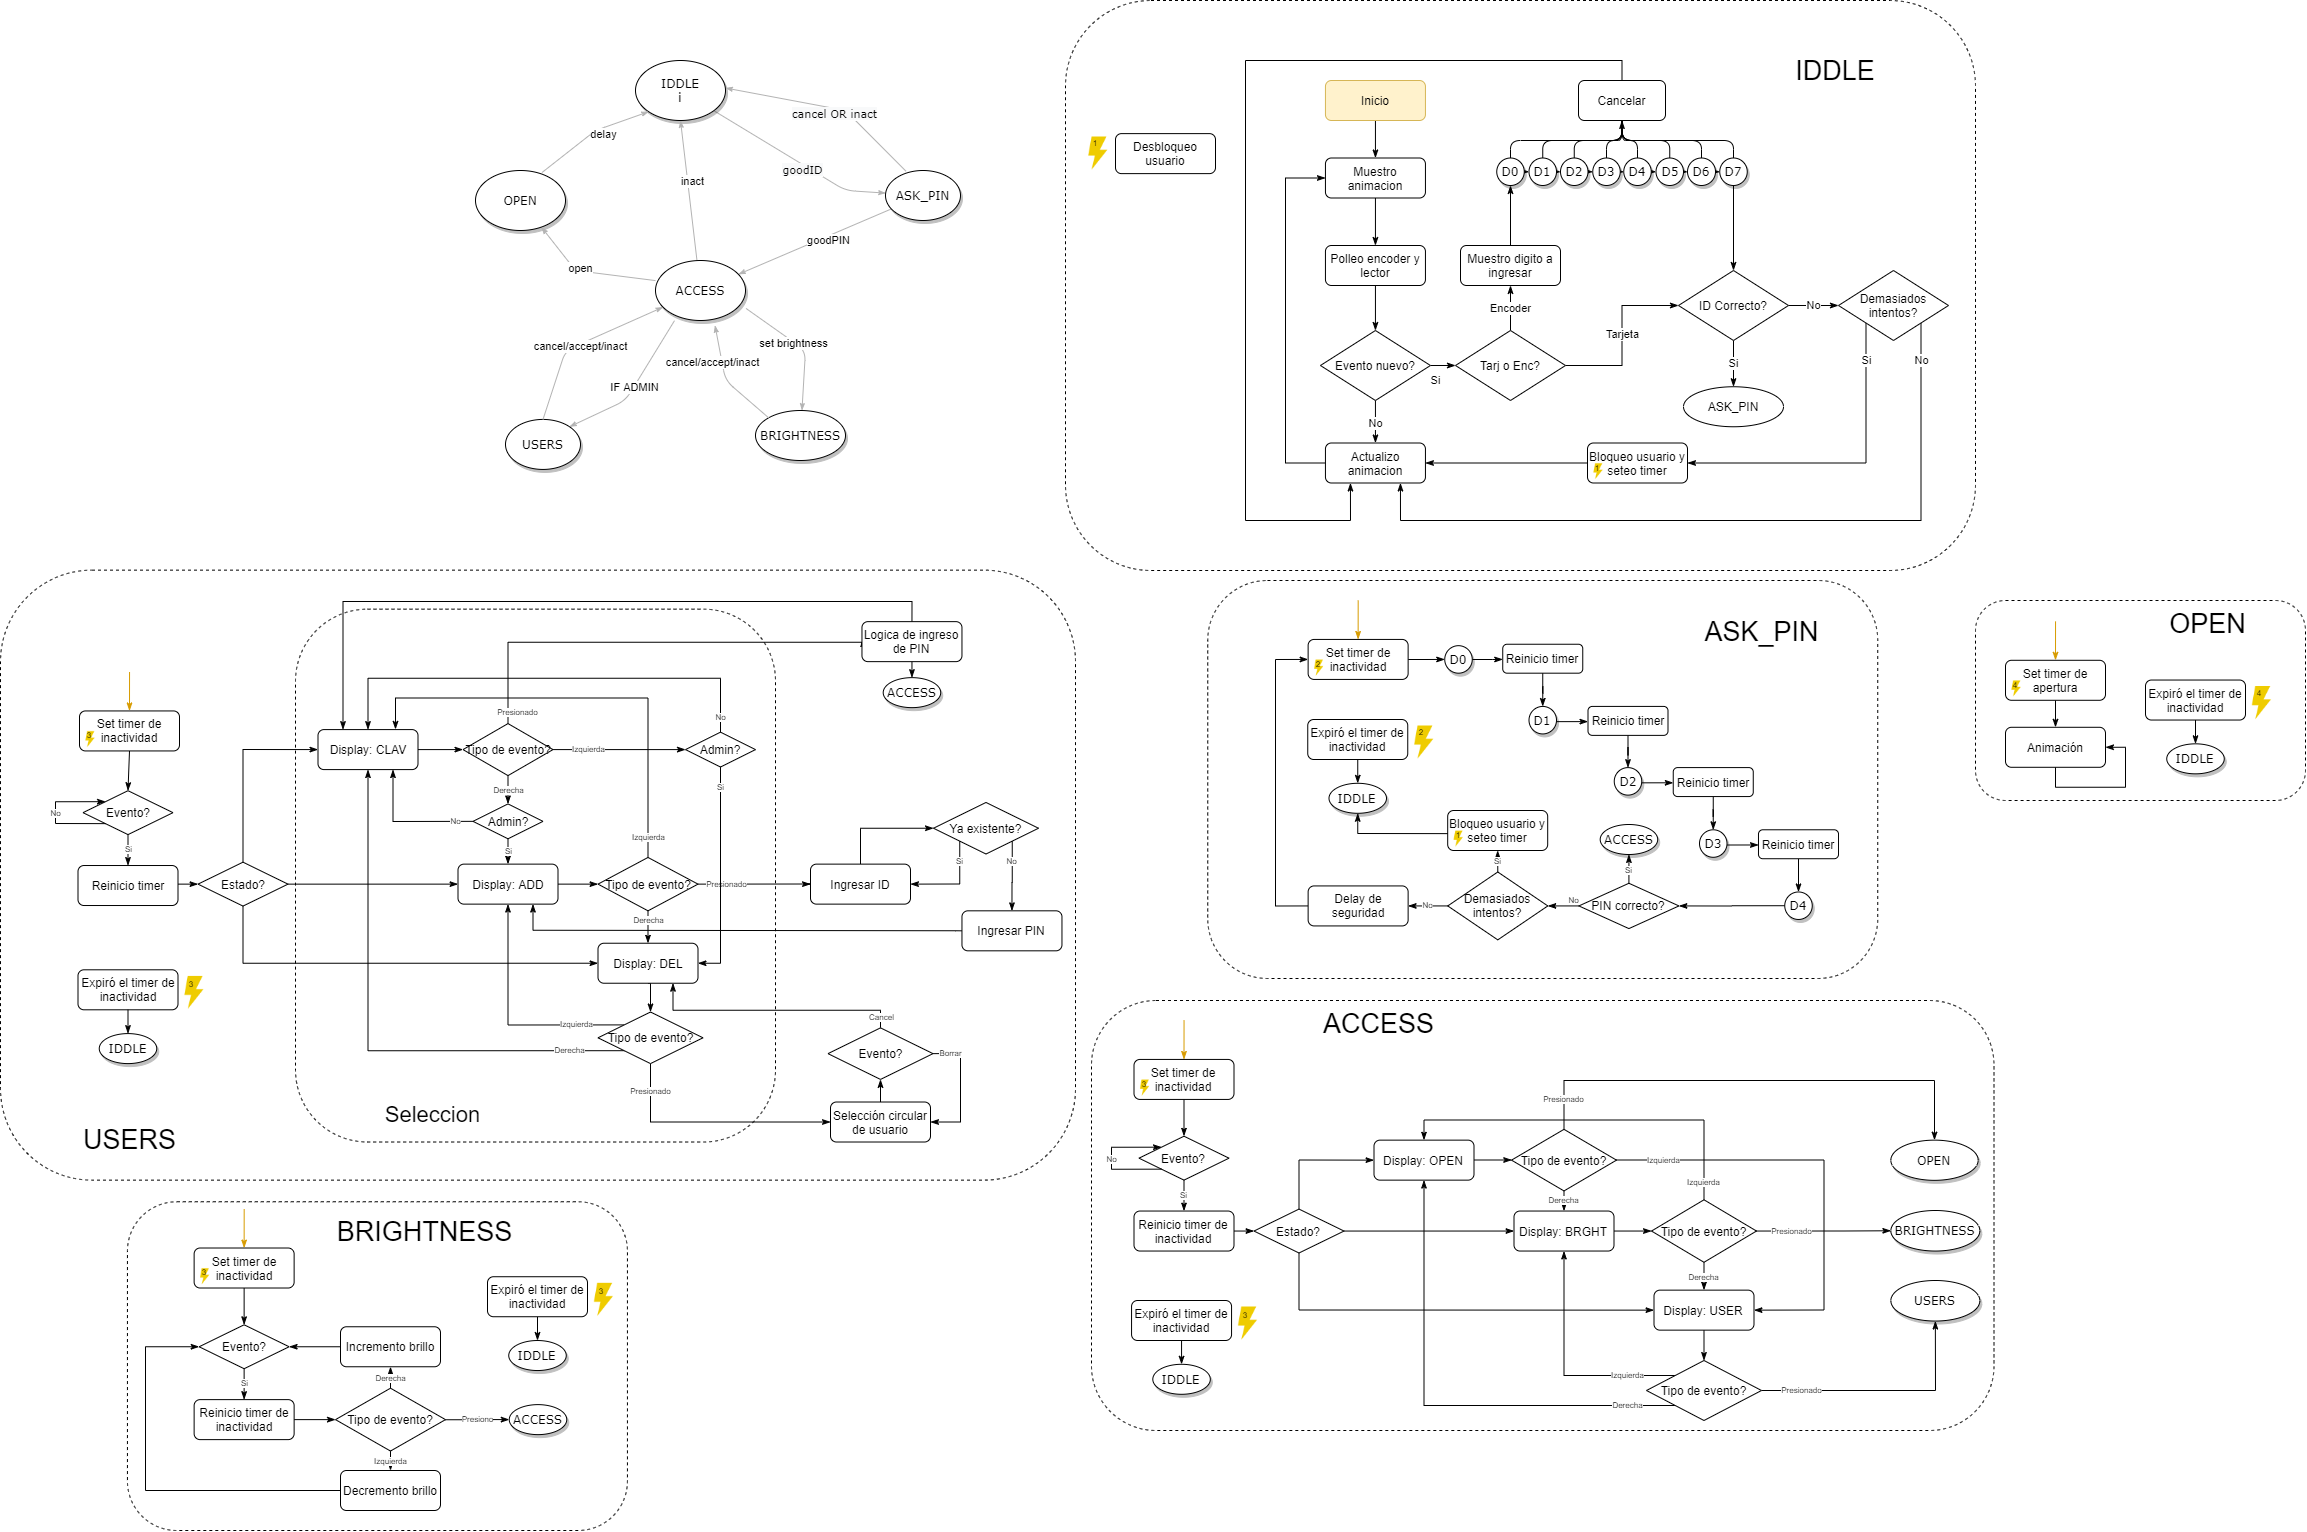
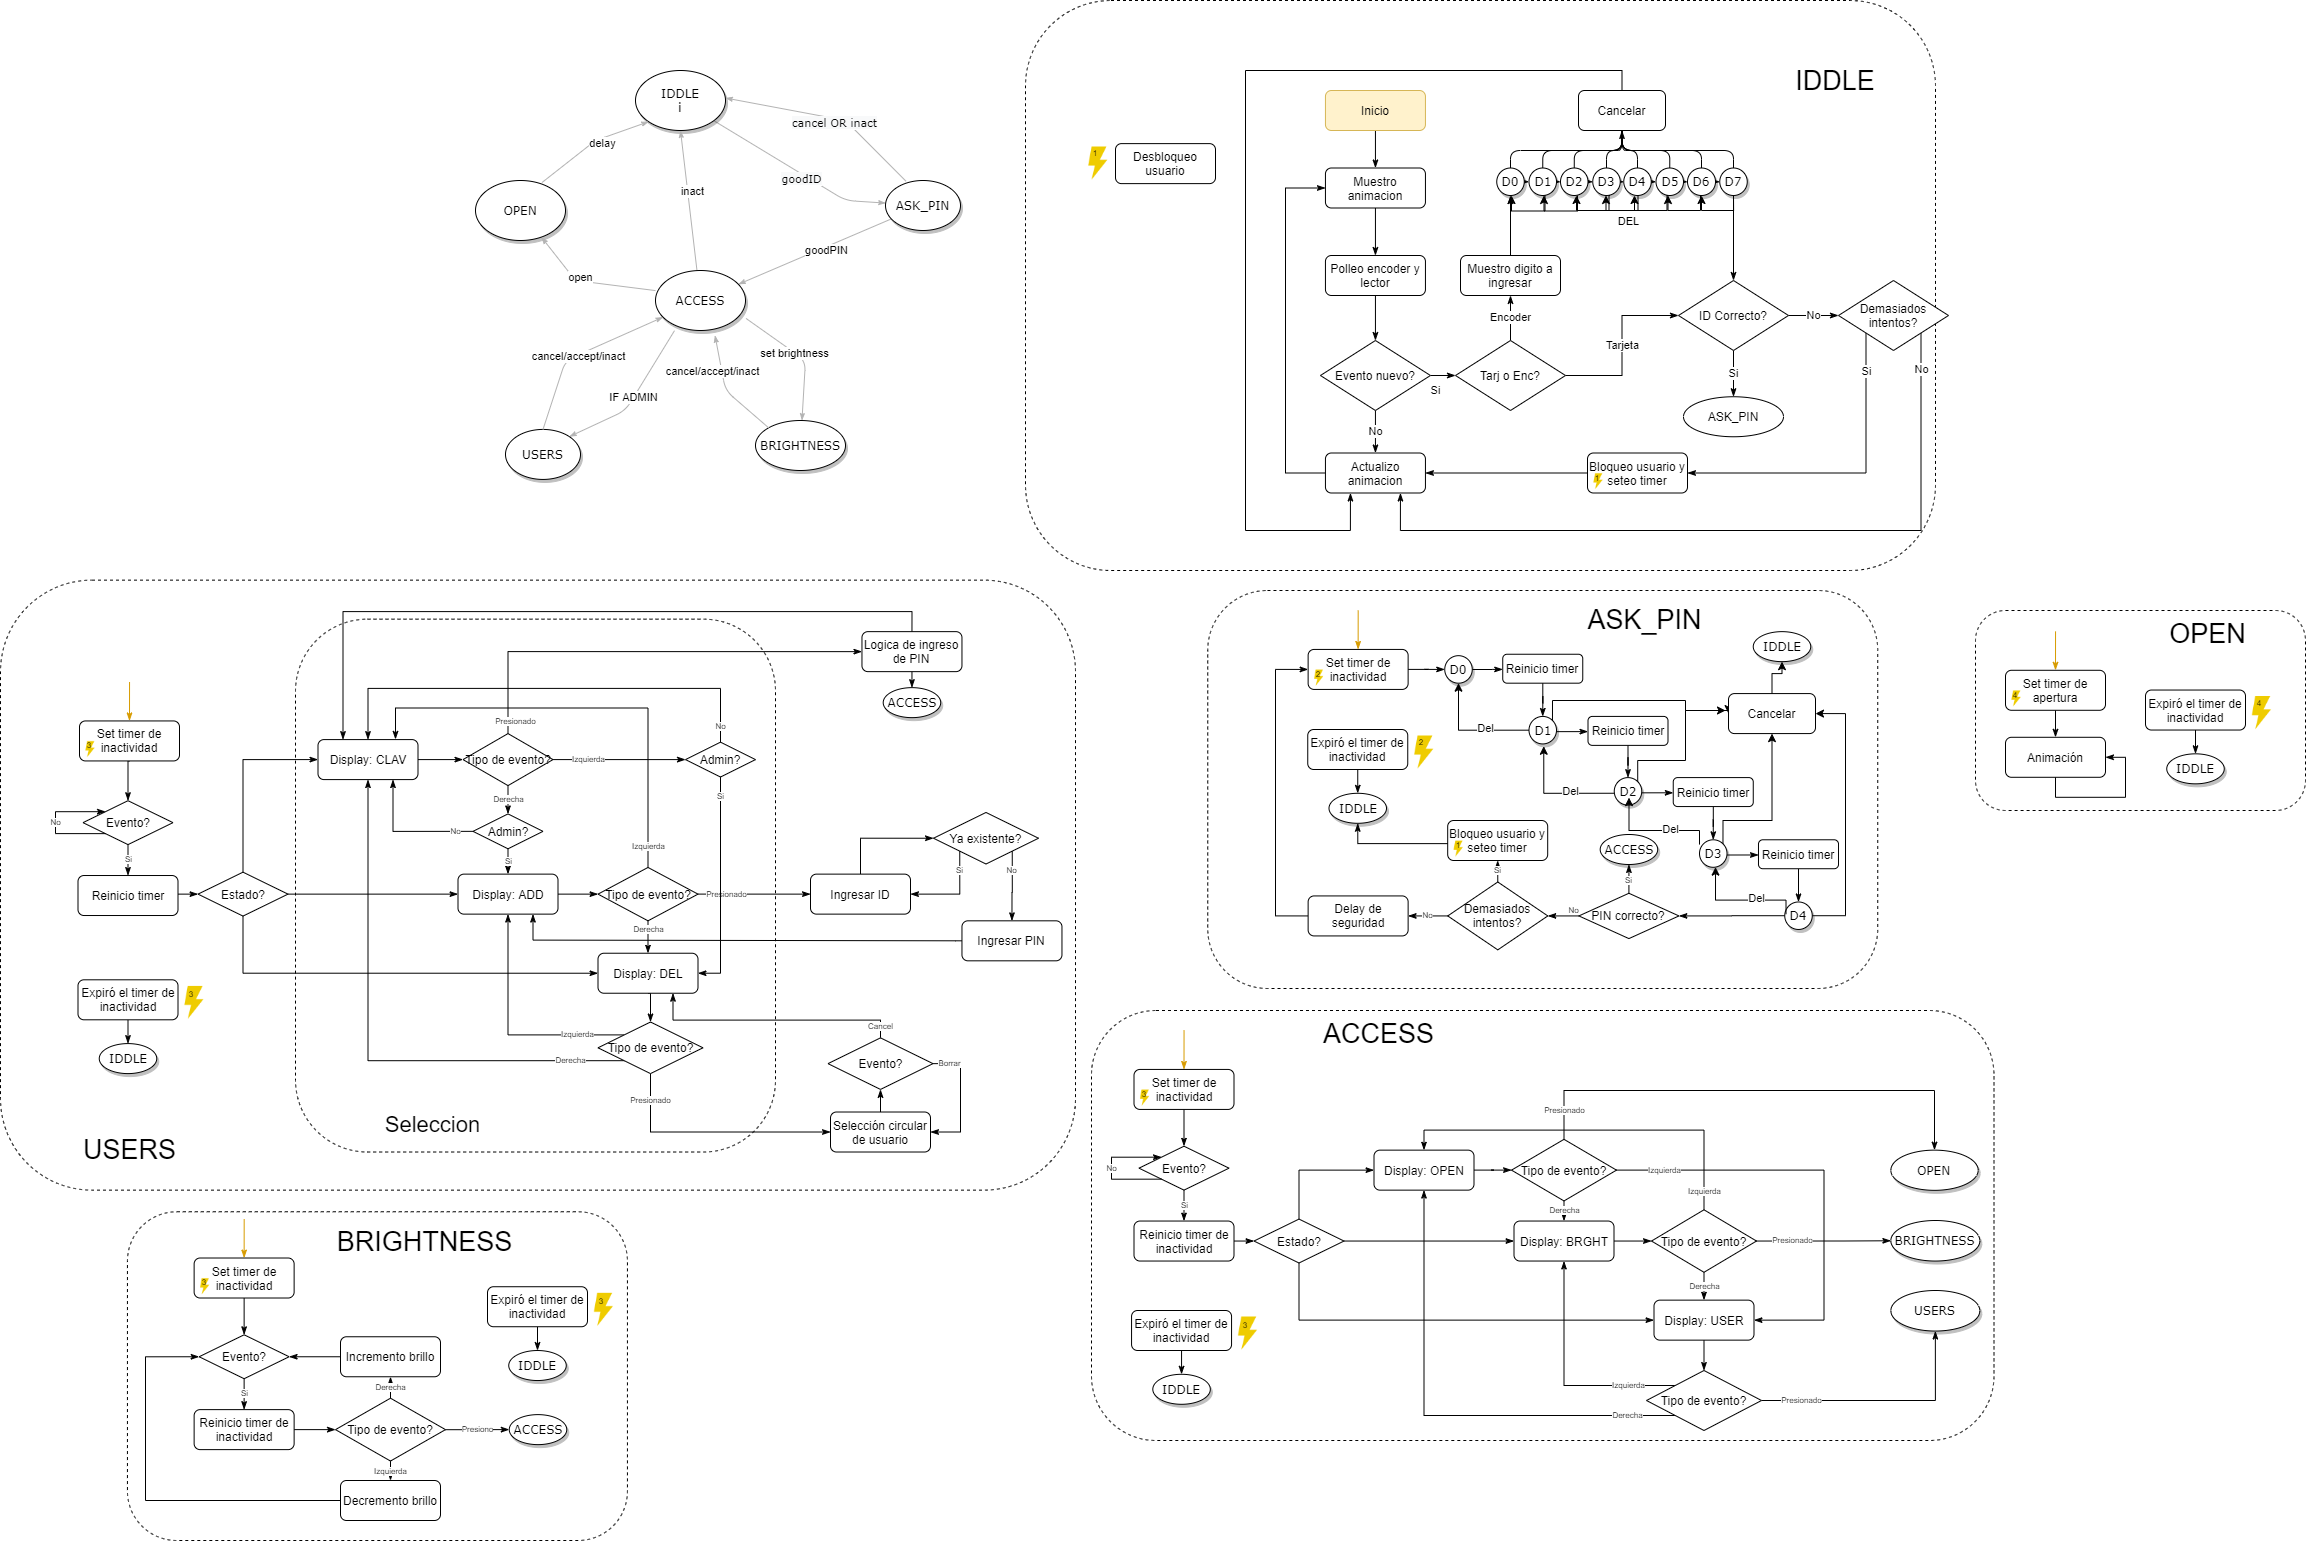
user class

diff --git a/TP1/test bench/App_development/App_development/app/users.h b/TP1/test bench/App_development/App_development/app/users.h
@@ -1,0 +1,70 @@
+
+/***************************************************************************//**
+  @file     users.h
+  @brief    fsm that controls the system
+  @author   MAGT
+ ******************************************************************************/
+#pragma once
+ /*******************************************************************************
+  * INCLUDE HEADER FILES
+  ******************************************************************************/
+#include <cstdint>
+  /*******************************************************************************
+   * CONSTANT AND MACRO DEFINITIONS USING #DEFINE
+   ******************************************************************************/
+
+   /*******************************************************************************
+	   * ENUMERATIONS AND STRUCTURES AND TYPEDEFS
+  ******************************************************************************/
+typedef struct {
+    uint32_t id;
+    uint32_t password;
+    bool admin;
+    bool available;
+    bool blocked;
+    uint8_t strikes;
+}user_t;
+  /*******************************************************************************
+		  * VARIABLE PROTOTYPES WITH GLOBAL SCOPE
+******************************************************************************/
+
+/*******************************************************************************
+* FUNCTION PROTOTYPES WITH GLOBAL SCOPE
+******************************************************************************/
+/**
+* @brief .initUsers: loads the default users stored in memory
+*
+*/
+void initUsers(void);
+/**
+* @brief .addUser: Adds the user specefied by the usert structure
+* if the user ID already exist the admin overwrites the old password with the new one.
+* it also unblocks the user if it was blocked.
+* if the user id didnt exist, creates the new user.
+*
+*/
+void addUser(user_t new_user);
+/**
+* @brief .deleteUser: deletes the user specified.
+*/
+void deleteUser(uint32_t userID);
+/**
+* @brief addStrike: Increases the strike counter of the user ID, Three strikes and you're out.
+*/
+void addStrike(uint32_t userID);
+/**
+* @brief clearStrikes: Clears the strikes of all users.
+*/
+void clearStrikes(void);
+
+/**
+* @brief getAdminStatus: returns true if the user ID specified is an admin.
+*/
+bool getAdminStatus(uint32_t userID);
+
+/**
+* @brief getBlockedStatus: returns true if the user ID specified is blocked.
+*/
+bool getBlockedStatus(uint32_t userID);
+
+

diff --git a/TP1/test bench/App_development/App_development/drivers/placaVerde.h b/TP1/test bench/App_development/App_development/drivers/placaVerde.h
@@ -53,6 +53,7 @@ void PVdispShift(direction_t direction);
  */
 void PVdispClear(void);
 
+
 /**
  * @brief dispBrightness: Changes the brightness of all displays.
  * @params brightness: the brightness value to be set. Lives between 0<b<100
@@ -60,12 +61,48 @@ void PVdispClear(void);
  */
 void PVdispBrightness(uint8_t brightness);
 
+void PVIncreaseBrightness(void);
+void PVDecreaseBrightness(void);
+/*******************************************************************************
+ * ENUMERATIONS AND STRUCTURES AND TYPEDEFS
+ ******************************************************************************/
+typedef uint8_t event_t;
+
+typedef struct
+{
+    pin_t pin_A;
+    pin_t pin_B;
+    bool event_flag;
+    event_t event_queue[20];
+    uint8_t in_pointer;
+    uint8_t out_pointer;
+} encoder_state_t;
+
+typedef uint8_t encoder_id;
+/*******************************************************************************
+ * CONSTANT AND MACRO DEFINITIONS USING #DEFINE
+ ******************************************************************************/
+#define HIGH 1
+#define LOW 0
+
+#define EVENT_AVB 1     //New event available
+#define EVENT_NOT_AVB 0 //Nothing new to retrieve
+
+#define LEFT_TURN 0
+#define RIGHT_TURN 1
+#define BUTTON_PRESS 2
+
+ //Add new encoder
+encoder_id PVencoder_register(void);
 //Init encoder driver
 void PVencoder_init(void);
 //Update encoders
-encoder_id PVencoder_register(void);
-//Set max and min
-int8_t PVencoder_pop_event(encoder_id id);
-//Set the current encoder position as a relative zero
-bool PVencoder_is_there_ev(encoder_id id);
-//Get the current count
+void PVencoder_update(void);
+//Reports if there is an event available
+bool PVencoder_event_avb(encoder_id id);
+//Adds a new a event to the queue
+void PVencoder_add_new_event(encoder_id id, event_t ev);
+//Pops the last event in the queue
+event_t PVencoder_pop_event(encoder_id id);
+
+void PVAnimation(bool activated);

diff --git a/TP1/test bench/App_development/App_development/app/fsm.h b/TP1/test bench/App_development/App_development/app/fsm.h
@@ -12,7 +12,17 @@
   /*******************************************************************************
    * CONSTANT AND MACRO DEFINITIONS USING #DEFINE
    ******************************************************************************/
-#define INACTIVITY_TRIGGER_TIME 5000 //ms
+#define INACTIVITY_TRIGGER_TIME (5000) //ms
+#define OPEN_TRIGGER_TIME (5000) //ms
+
+const char BRIGHTNESS_MSG[4] = { 'B','R','G','H' };
+const char OPEN_MSG[4] = { 'O','P','E','N' };
+const char USER_MSG[4] = { 'U','S','E','R' };
+
+const char PASSWORD_MSG[4] = { 'P','A','S','S' };
+const char ADD_USER_MSG[4] = { 'A','D','D','U' };
+const char DEL_USER_MSG[4] = { 'D','E','L','U' };
+
    /*******************************************************************************
     * ENUMERATIONS AND STRUCTURES AND TYPEDEFS
     ******************************************************************************/
